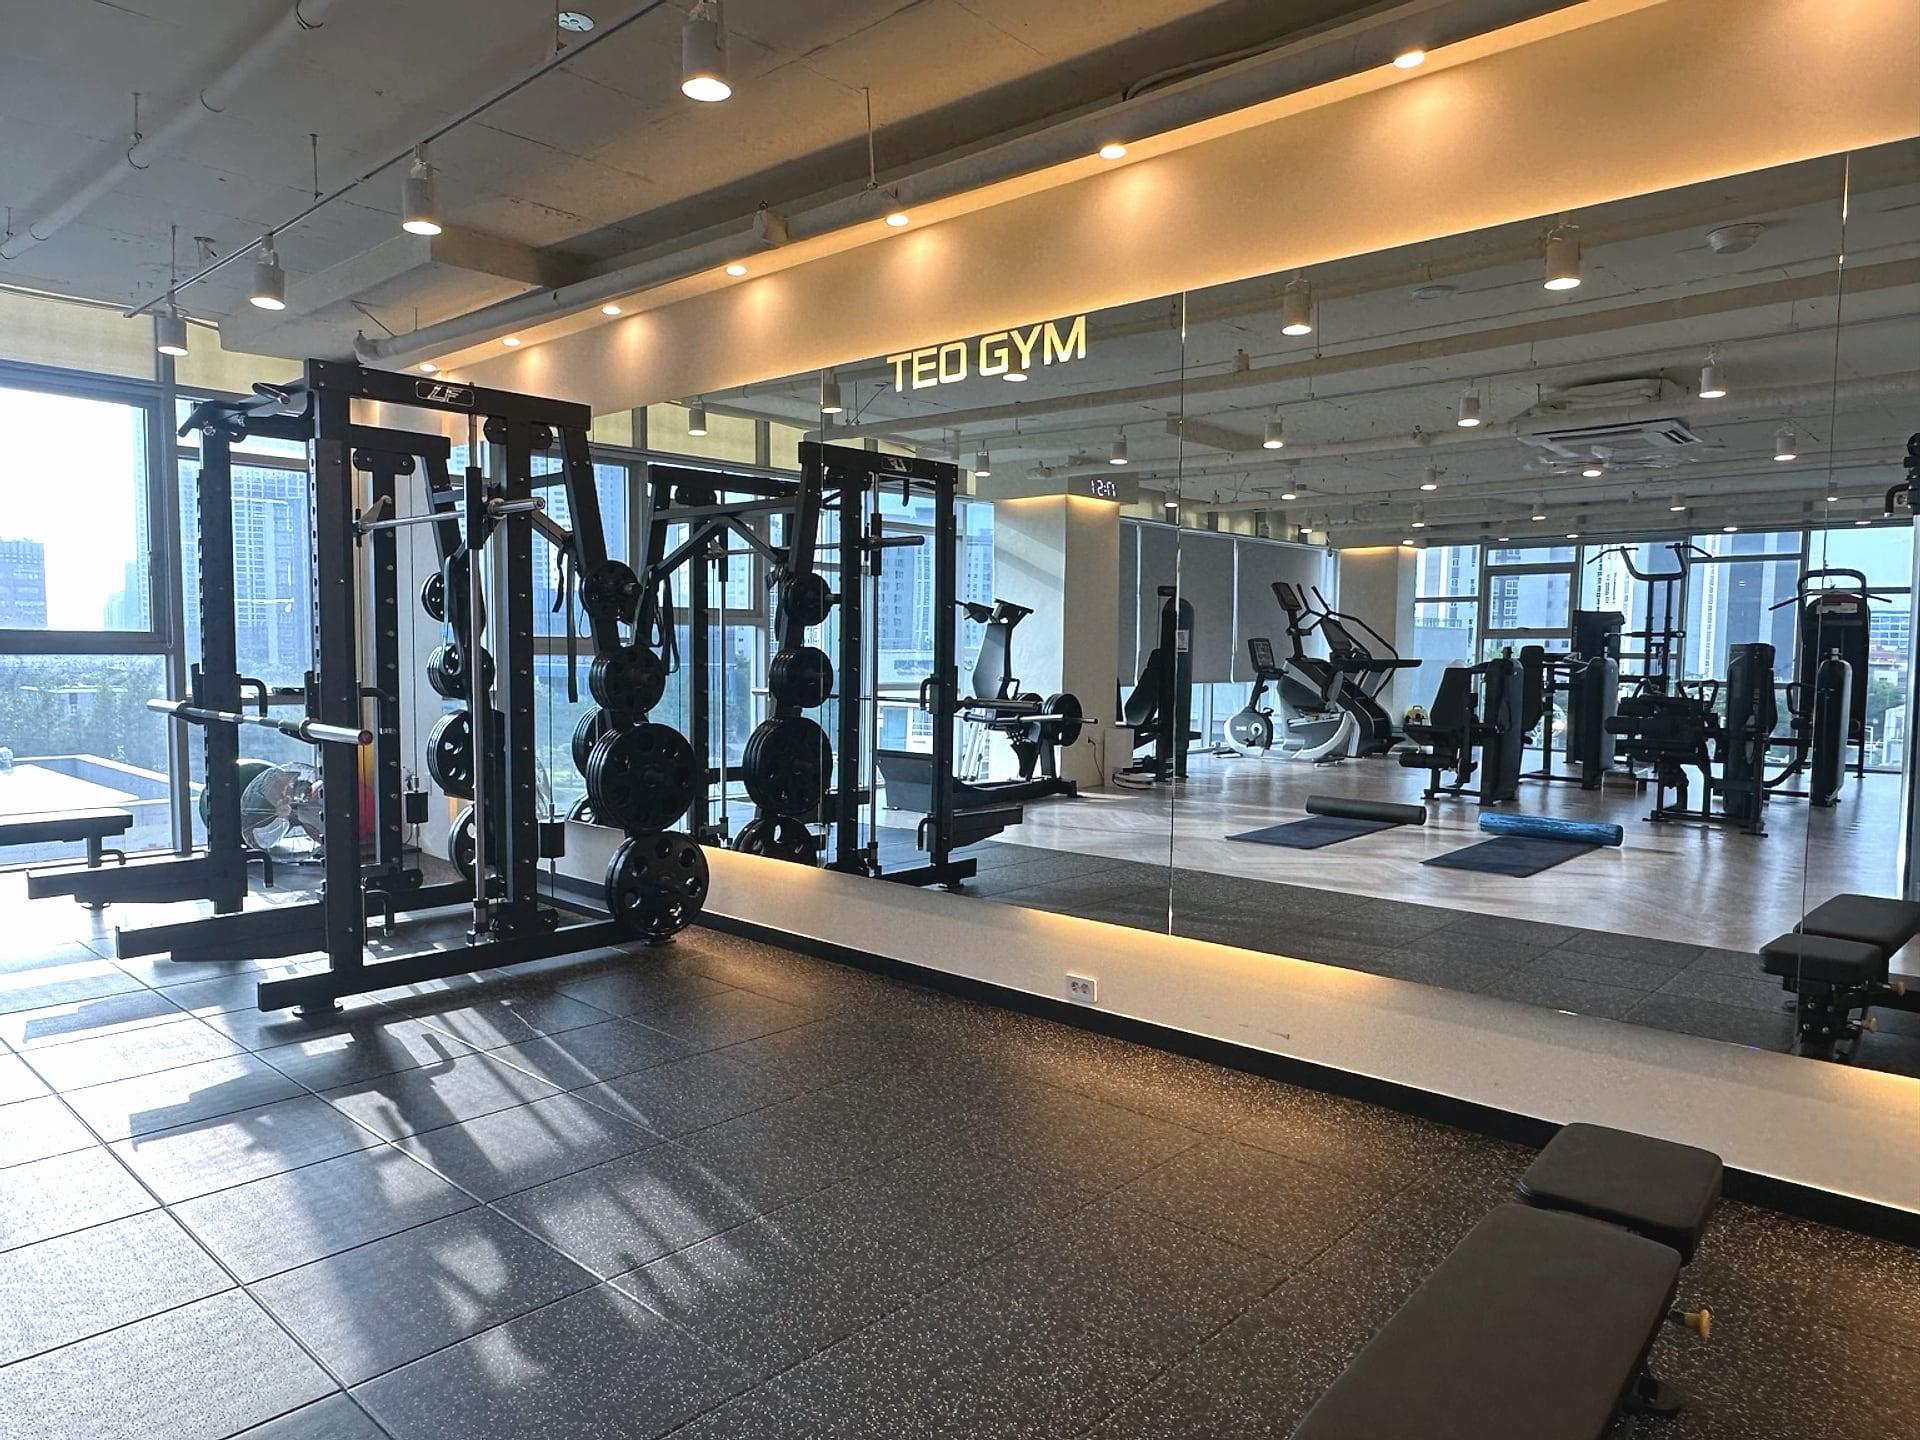
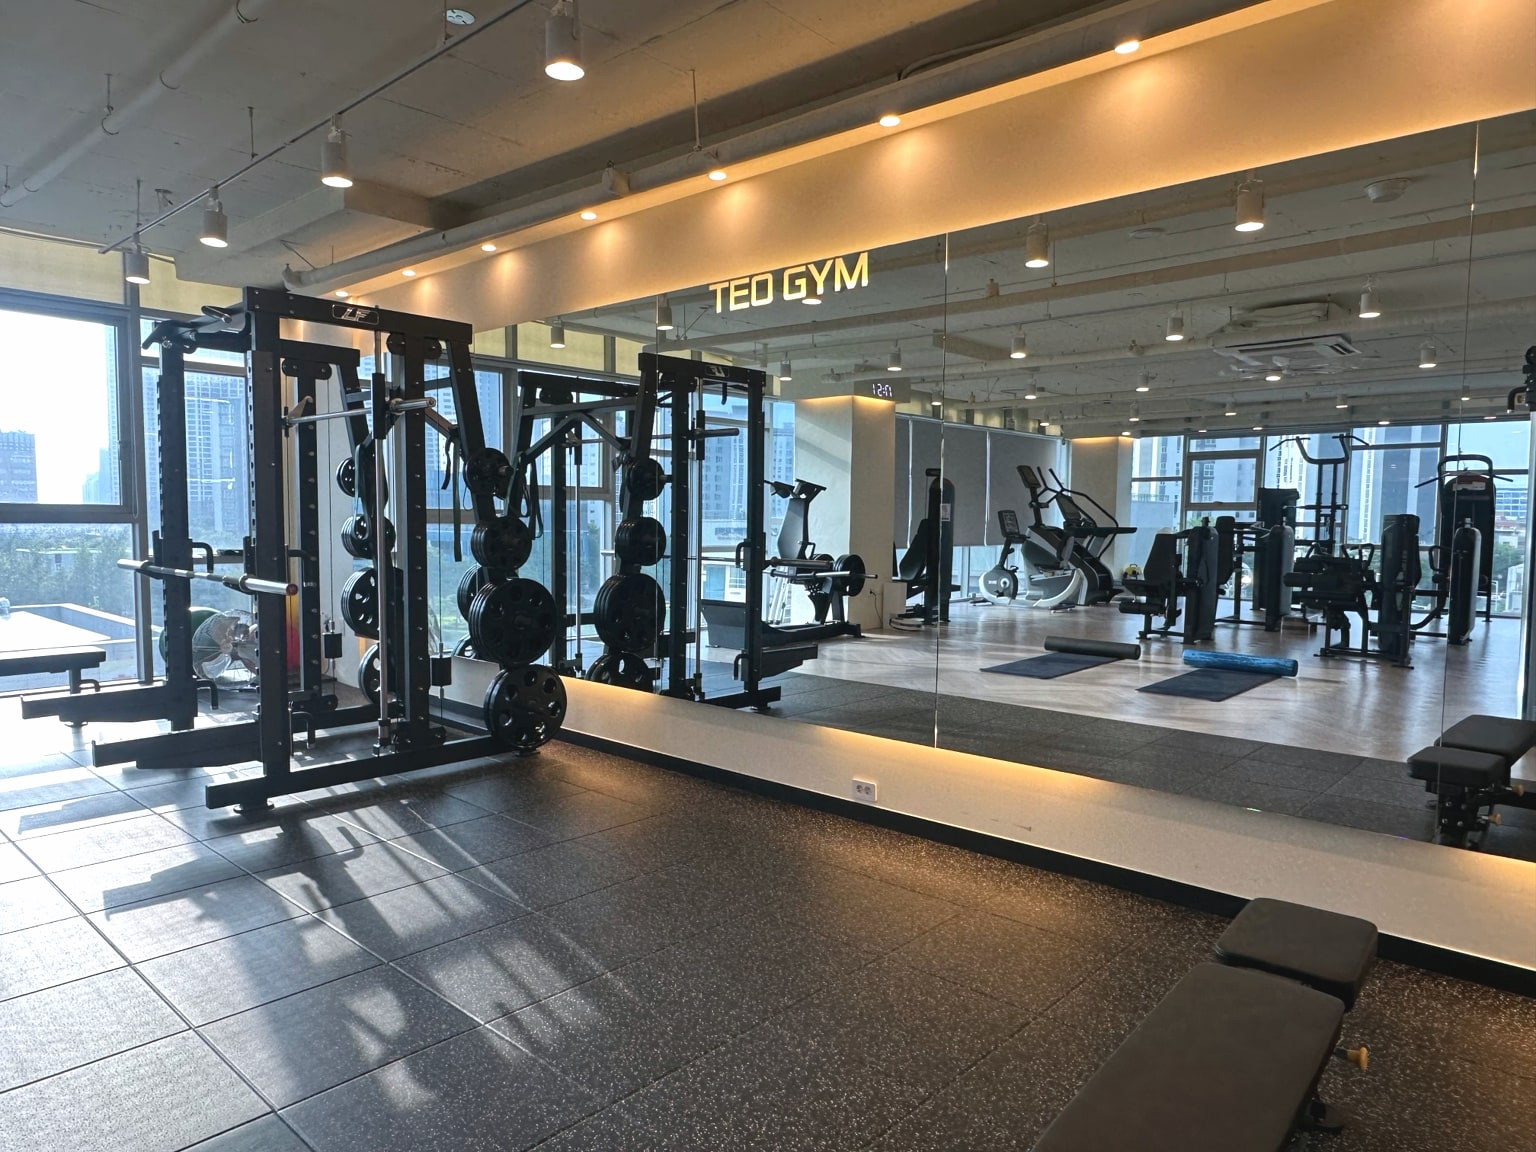
refine hero into calm premium wellness look with wider text zone

diff --git a/app/page.tsx b/app/page.tsx
@@ -34,27 +34,27 @@ export default function Home() {
 
     {/* Hero — 밝은 센터 전경이 화면 전체 배경으로 깔리는 프리미엄 히어로 */}
     <section className="relative overflow-hidden">
-      {/* object-position 60% 40%: TEO GYM 로고와 장비가 중심에 오고 왼쪽 바닥 비중이 줄어듦 (모바일에서도 로고 노출) */}
+      {/* 아주 미세한 슬로우 줌(3%, 8초) — 흐림 없이 애플 수준의 절제된 움직임. object-position 50% 40%: 로고와 공간이 중심 */}
       <img
         src={photos.heroStudio.src}
         alt={photos.heroStudio.alt}
         loading="eager"
         fetchPriority="high"
-        className="hero-zoom absolute inset-0 h-full w-full object-cover object-[60%_40%]"
+        className="hero-zoom absolute inset-0 h-full w-full object-cover object-[50%_40%]"
       />
-      {/* 데스크톱: 텍스트 뒤(~40%)는 거의 흰 배경, 40~60%에서 빠르게 투명, 60% 이후는 원본 사진 */}
-      <div aria-hidden className="absolute inset-0 hidden md:block" style={{ background: 'linear-gradient(90deg, rgba(248,244,238,0.98) 0%, rgba(248,244,238,0.96) 18%, rgba(248,244,238,0.90) 34%, rgba(248,244,238,0.55) 44%, rgba(248,244,238,0.16) 54%, rgba(248,244,238,0.03) 60%, rgba(248,244,238,0) 66%)' }} />
+      {/* 데스크톱: 텍스트가 자기 공간을 갖도록 흰 영역을 ~42%까지 유지하고, 이후 자연광처럼 긴 페더로 사진에 녹아드는 그라데이션 */}
+      <div aria-hidden className="absolute inset-0 hidden md:block" style={{ background: 'linear-gradient(90deg, rgba(248,244,238,0.97) 0%, rgba(248,244,238,0.95) 18%, rgba(248,244,238,0.90) 32%, rgba(248,244,238,0.82) 42%, rgba(248,244,238,0.64) 50%, rgba(248,244,238,0.45) 58%, rgba(248,244,238,0.28) 66%, rgba(248,244,238,0.14) 74%, rgba(248,244,238,0.06) 82%, rgba(248,244,238,0.02) 90%, rgba(248,244,238,0) 100%)' }} />
       {/* 모바일: 텍스트 가독성 우선 — 상단은 진하게, 하단은 사진이 선명하게 */}
       <div aria-hidden className="absolute inset-0 md:hidden" style={{ background: 'linear-gradient(180deg, rgba(248,244,238,0.98) 0%, rgba(248,244,238,0.94) 48%, rgba(248,244,238,0.55) 78%, rgba(248,244,238,0.25) 100%)' }} />
       <div className="relative mx-auto flex min-h-[600px] max-w-6xl items-center px-4 pb-28 pt-20 md:min-h-[760px] md:px-10 md:pb-36 md:pt-24">
         <div>
           <Reveal>
-            <p className="text-sm font-bold uppercase tracking-[0.18em] text-accent-deep">청라 프리미엄 1:1 PT 스튜디오</p>
-            <h1 className="mt-6 max-w-[520px] text-4xl font-extrabold leading-[1.15] tracking-tight text-ink md:max-w-[640px] md:text-6xl lg:text-7xl">기록이 만든 변화,<br /><span className="text-accent">테오짐</span>의 기준입니다</h1>
-            <p className="mt-7 max-w-[520px] text-lg leading-8 text-ink-soft">체형교정 · 다이어트 · 벌크업<br />대표가 직접 평가하고 운동기록과 변화를 끝까지 관리합니다.</p>
+            <p className="text-sm font-bold uppercase tracking-[0.22em] text-accent-deep">청라 프리미엄 1:1 PT 스튜디오</p>
+            <h1 className="mt-7 max-w-[520px] text-4xl font-extrabold leading-[1.22] tracking-tight text-ink md:max-w-[640px] md:text-6xl lg:text-7xl">기록이 만든 변화,<br /><span className="text-accent">테오짐</span>의 기준입니다</h1>
+            <p className="mt-8 max-w-[480px] text-lg leading-9 text-ink-soft">체형교정 · 다이어트 · 벌크업<br />대표가 직접 평가하고 운동기록과 변화를 끝까지 관리합니다.</p>
           </Reveal>
           <Reveal delay={150}>
-            <div className="mt-9 flex flex-col gap-3 sm:flex-row">
+            <div className="mt-10 flex flex-col gap-3 sm:flex-row">
               <Button href={site.links.reservation}>무료 상담 예약</Button>
               <Button href="/app/" variant="outline">회원앱 둘러보기</Button>
             </div>

diff --git a/app/globals.css b/app/globals.css
@@ -48,14 +48,13 @@ a { color: inherit; text-decoration: none; }
   transform: translateY(-4px);
 }
 
-/* 히어로 배경: 페이지 진입 시 아주 천천히 줌아웃 (1회) */
+/* 히어로 배경: 진입 시 아주 미세하게 줌아웃 (3%, 1회 — 흐림을 만들지 않는 절제된 수준) */
 @keyframes hero-zoom-out {
-  from { transform: scale(1.07); }
+  from { transform: scale(1.03); }
   to { transform: scale(1); }
 }
 .hero-zoom {
-  animation: hero-zoom-out 7s cubic-bezier(0.22, 1, 0.36, 1) both;
-  will-change: transform;
+  animation: hero-zoom-out 8s cubic-bezier(0.22, 1, 0.36, 1) both;
 }
 
 @media (prefers-reduced-motion: reduce) {
